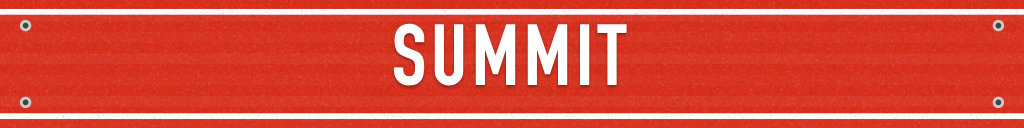
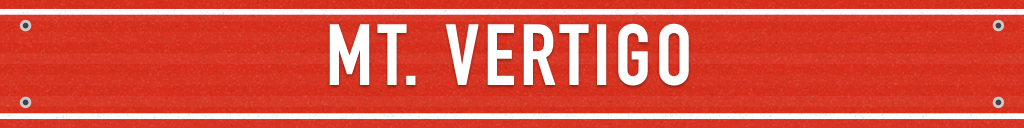
Mt. Vertigo; the caution tape stretches before it snaps
- The mountain is Mt. Vertigo: on the start banner, and the finish screen reads YOU SURVIVED /
  MT. VERTIGO · Score
- The tape catches on the rider, stretches round them as they drag it 2.4 m downhill (its print
  stretching with it), then snaps and whips back toward its posts

Changed region(s): [[0.3125, 0.1875, 0.6875, 0.6875]]

diff --git a/Tools/MakeSigns.swift b/Tools/MakeSigns.swift
@@ -75,7 +75,7 @@ func make(_ name: String, w: Int, h: Int, bg: NSColor, fg: NSColor, text: String
 }
 
 let red = NSColor(calibratedRed: 0.80, green: 0.10, blue: 0.09, alpha: 1)
-make("BannerSummit", w: 1024, h: 128, bg: red, fg: .white, text: "SUMMIT", sub: nil, hazard: false, stripe: .white)
+make("BannerSummit", w: 1024, h: 128, bg: red, fg: .white, text: "MT. VERTIGO", sub: nil, hazard: false, stripe: .white)
 make("SignPark", w: 1024, h: 256, bg: NSColor(calibratedRed: 0.95, green: 0.45, blue: 0.08, alpha: 1), fg: .white, text: "TERRAIN PARK", sub: "BOXES  ·  RAILS  ·  JUMP LINE", hazard: false, stripe: .white)
 make("SignDanger", w: 1024, h: 256, bg: NSColor(calibratedRed: 0.98, green: 0.80, blue: 0.10, alpha: 1), fg: NSColor(calibratedWhite: 0.08, alpha: 1), text: "DANGER", sub: "CREVASSES  ·  WILDLIFE", hazard: true, stripe: .black)
 make("SignPipe", w: 1024, h: 256, bg: NSColor(calibratedRed: 0.10, green: 0.38, blue: 0.80, alpha: 1), fg: .white, text: "HALFPIPE", sub: "STAY IN THE CENTRE", hazard: false, stripe: .white)

diff --git a/Assets/Summit/Scripts/CautionTape.cs b/Assets/Summit/Scripts/CautionTape.cs
@@ -14,6 +14,9 @@ namespace Summit
         readonly Vector3[] p = new Vector3[N], prev = new Vector3[N];
         float rest;
         int broken = -1;                           // the link that tore (-1: whole)
+        int pull = -1;                             // the link the rider is dragging along before it snaps
+        float pullZ;                               // where the tape hung across the run
+        const float SnapStretch = 2.4f;            // how far past its line the rider drags it before it gives
         Rider rider;
         Mesh mesh;
         Vector3[] verts; Vector2[] uvs; int[] tris;
@@ -57,7 +60,7 @@ namespace Summit
         {
             float dt = Mathf.Min(ChaseCamera.TestDt > 0f ? ChaseCamera.TestDt : Time.deltaTime, 1f / 30f);
             if (dt <= 0f) return;
-            if (broken < 0 && rider != null && rider.Running) CheckHit();
+            if (broken < 0 && rider != null && rider.Running) { if (pull < 0) CheckHit(); else CheckSnap(); }
             Step(dt);
             Draw();
         }
@@ -72,14 +75,36 @@ namespace Summit
             if (r.x < lo || r.x > hi) return;
             int k = Mathf.Clamp(Mathf.FloorToInt((r.x - p[0].x) / (p[N - 1].x - p[0].x) * (N - 1)), 1, N - 3);
             if (r.y - p[k].y > 2.2f) return;
+            // caught on the rider: it stretches round them, dragged downhill, until it snaps
+            pull = k; pullZ = z;
+        }
+
+        Vector3 Grab(int i)
+        {
+            // where the tape is held on the rider: across their shins, either side of the middle
+            Vector3 r = rider.transform.position + Vector3.up * 0.55f;
+            Vector3 along = (p[N - 1] - p[0]).normalized;
+            return r + along * (i == pull ? -0.15f : 0.15f);
+        }
+
+        void CheckSnap()
+        {
+            Vector3 r = rider.transform.position;
+            float lo = Mathf.Min(p[0].x, p[N - 1].x) - 1f, hi = Mathf.Max(p[0].x, p[N - 1].x) + 1f;
+            bool gone = r.z - pullZ > SnapStretch || rider.Crashed || r.x < lo || r.x > hi || r.z < pullZ - 1f;
+            if (!gone) return;
+            int k = pull;
+            pull = -1;
             broken = k;
-            // the ends near the tear are dragged along with the rider
-            Vector3 v = rider.Velocity;
-            for (int i = 0; i < N; i++)
+            // it snaps back toward its posts, harder the further it was stretched, with a flick upward
+            float stretch = Mathf.Clamp01((r.z - pullZ) / SnapStretch);
+            for (int i = 1; i < N - 1; i++)
             {
+                Vector3 post = i <= k ? p[0] : p[N - 1];
                 float d = Mathf.Abs(i - (k + 0.5f));
-                float w = Mathf.Exp(-d / 4f);
-                prev[i] = p[i] - (v * 0.75f + Vector3.up * 1.5f) * w * (1f / 60f);
+                float w = Mathf.Exp(-d / 6f);
+                Vector3 v = (post - p[i]) * (2.5f * stretch) * w + Vector3.up * 2f * w + rider.Velocity * 0.2f * w;
+                prev[i] = p[i] - v * (1f / 60f);
             }
             Torn?.Invoke(r);
         }
@@ -108,6 +133,7 @@ namespace Summit
                     p[i] += vel + (Vector3.down * 9.8f + new Vector3(0f, 2f * Mathf.Sin(t * 8f + i), 6f * gust)) * dt * dt;
                 }
             }
+            if (pull >= 0) { p[pull] = Grab(pull); p[pull + 1] = Grab(pull + 1); prev[pull] = p[pull]; prev[pull + 1] = p[pull + 1]; }
             for (int it = 0; it < 10; it++)
                 for (int i = 0; i < N - 1; i++)
                 {
@@ -116,7 +142,8 @@ namespace Summit
                     float len = d.magnitude;
                     if (len < 1e-5f) continue;
                     Vector3 c = d * (0.5f * (len - rest) / len);
-                    bool pinA = i == 0, pinB = i + 1 == N - 1;
+                    bool pinA = i == 0 || (pull >= 0 && (i == pull || i == pull + 1));
+                    bool pinB = i + 1 == N - 1 || (pull >= 0 && (i + 1 == pull || i + 1 == pull + 1));
                     if (pinA && pinB) continue;
                     if (pinA) p[i + 1] -= 2f * c;
                     else if (pinB) p[i] += 2f * c;
@@ -146,7 +173,7 @@ namespace Summit
                 up = Quaternion.AngleAxis(twist * Mathf.Rad2Deg, dir) * up;
                 Vector3 local = transform.InverseTransformPoint(p[i]);
                 Vector3 h = transform.InverseTransformVector(up * (Width * 0.5f));
-                if (i > 0 && i - 1 != broken) u += (p[i] - p[i - 1]).magnitude / Tile;
+                if (i > 0 && i - 1 != broken) u += rest / Tile;   // the print stretches with the plastic
                 else if (i > 0) u += 0.5f;
                 // front face and back face (separate vertices, so each lights from its own side)
                 verts[i * 4] = local - h; verts[i * 4 + 1] = local + h;

diff --git a/Assets/Summit/Scripts/SummitGame.cs b/Assets/Summit/Scripts/SummitGame.cs
@@ -380,7 +380,7 @@ namespace Summit
             int s = Score;
             bool record = s > best;
             if (record) { best = s; PlayerPrefs.SetInt("summit_best", s); PlayerPrefs.Save(); }
-            hud.Show(title, "Score " + s.ToString("N0"),
+            hud.Show(title, (title == "YOU SURVIVED" ? "MT. VERTIGO  ·  " : "") + "Score " + s.ToString("N0"),
                      (record ? "NEW BEST  " : "Best ") + Mathf.RoundToInt(best).ToString("N0") +
                      "   ·   " + Mathf.RoundToInt(rider.Distance) + " m   ·   " + Hud.FormatTime(runTime) +
                      (medical > 0f ? "\nMEDICAL BILL  $" + Mathf.RoundToInt(medical).ToString("N0") : "\nNo medical bills. Clean run!"));
@@ -454,7 +454,7 @@ namespace Summit
                         // through the finish at the base: the whole mountain, done
                         trickPoints += 5000;
                         audioFx.Play(Sfx.TrickBig, 4);
-                        ToEnd("YOU MADE IT", false);
+                        ToEnd("YOU SURVIVED", false);
                         break;
                     }
                     if (wipeoutTimer > 0f) { if (!body.RagdollMoving) wipeoutTimer -= dt; if (wipeoutTimer <= 0f) { ToEnd(endTitle, false); break; } }

diff --git a/Assets/Editor/StartShot.cs b/Assets/Editor/StartShot.cs
@@ -27,7 +27,7 @@ public static class StartShot
         Physics.simulationMode = SimulationMode.Script;
         typeof(SummitGame).GetMethod("ToRiding", NP).Invoke(game, null);
         rider.input = null;
-        float[] shots = { 6.6f, 7.3f, 8.0f, 8.6f, 9.5f, 11f };
+        float[] shots = { 6.5f, 6.8f, 6.9f, 7.0f, 7.1f, 7.4f };
         ChaseCamera.TestDt = 1f / 60f;
         int next = 0;
         const float dt = 1f / 60f;
